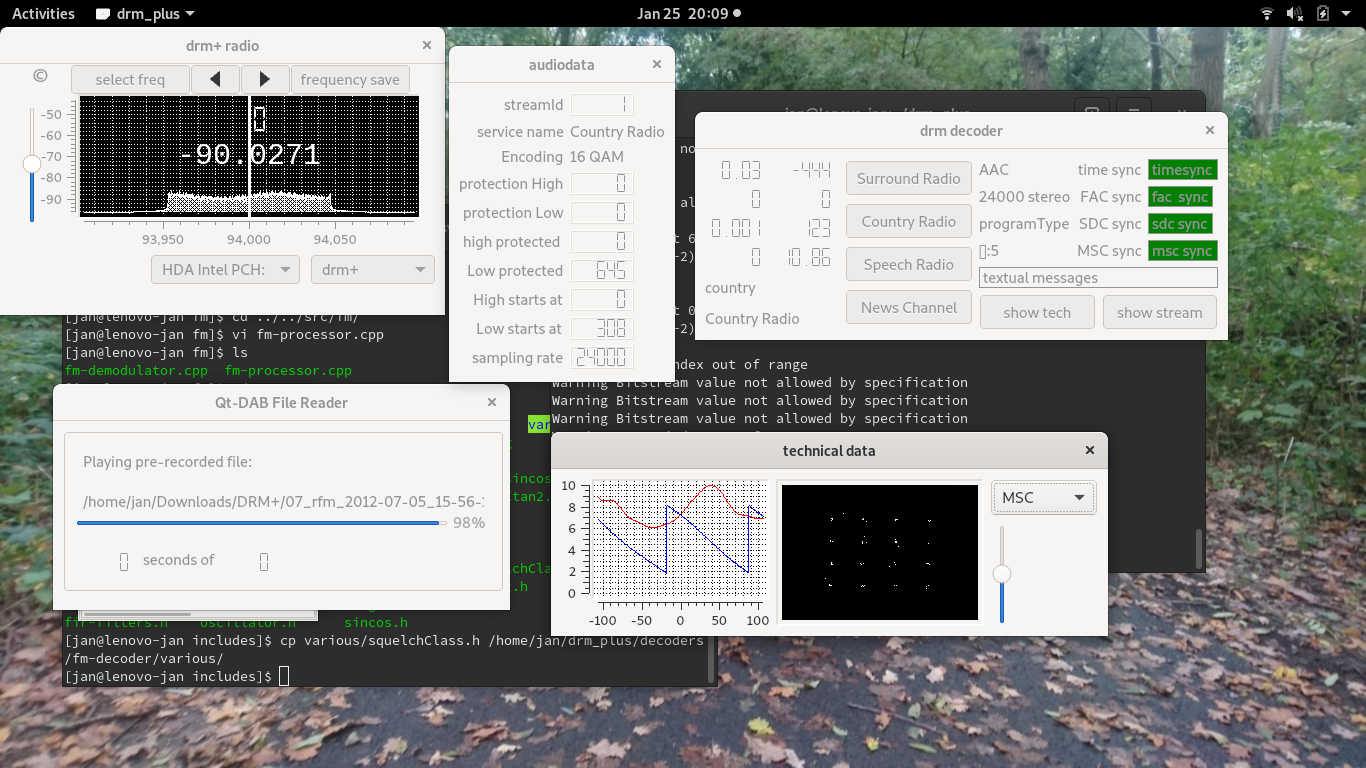
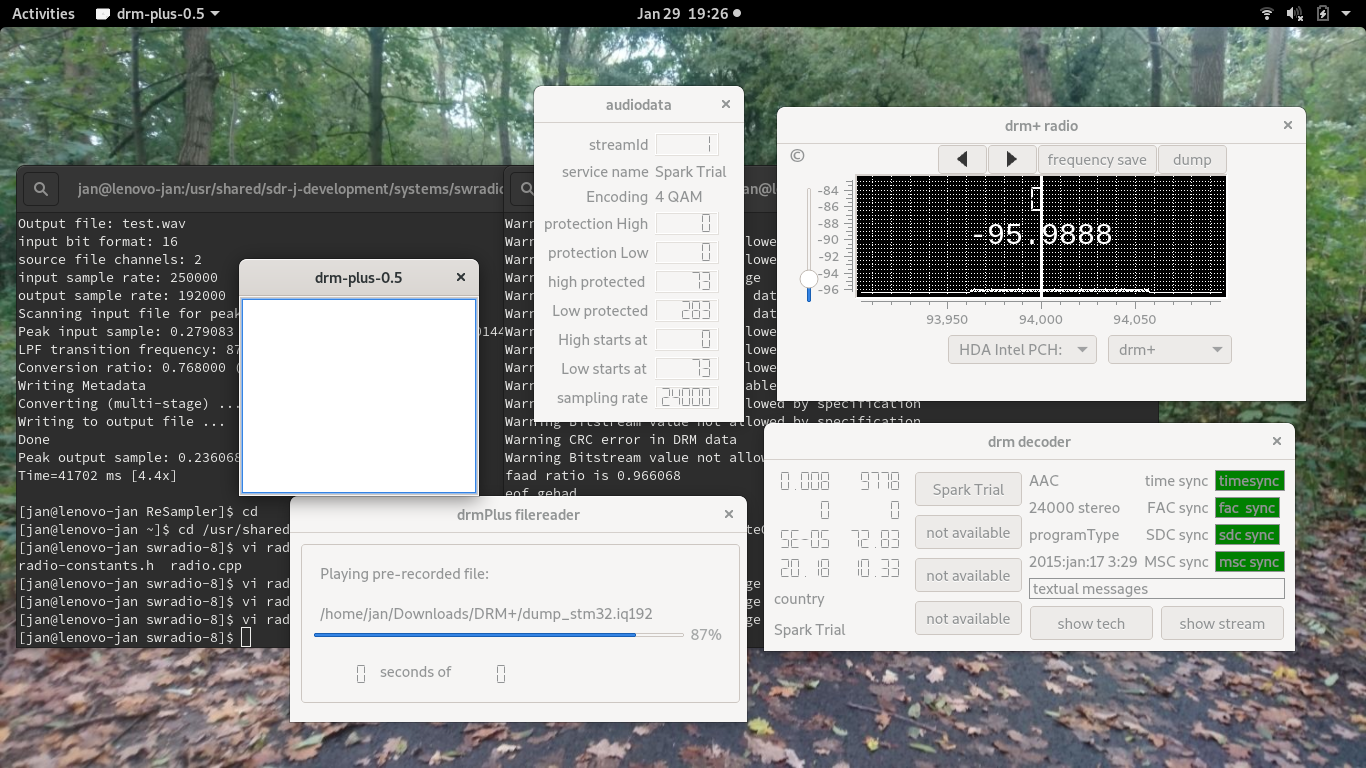
modified pictures

diff --git a/README.md b/README.md
@@ -1,6 +1,6 @@
 
 ------------------------------------------------------------------
-DRMPLUS-0.4
+DRMPLUS-0.5
 ------------------------------------------------------------------
 
 DRMPLUS-0.5 is experimental software for the decoding of
@@ -68,7 +68,7 @@ of the signal (just a technical term, skip if you are not familiar with it),
 i.e, the protection of the high and low protected parts as well as the
 offsets in the mux where to find the data.
 Furthermore, this widget will tell whether the signal was encoded as
-a 4QAM or a 16QAM signal.
+a 4QAM or a 16QAM signal (both supported).
 
 The (really) technical widget will show two "scopes". The scope on the
 left will show the equalization signal (note that DRM decoding requires
@@ -96,6 +96,8 @@ and some software filtering is applied - in the decimation process -
 to narrow the reception band to 192000 (Note that the SDRplay already
 has support for a bandwidth of 200 Khz)
 
+The *dump* button will write out the input data as a PCM (.wav)
+file with a samplerate of 192000
 Next to these devices, there is support for
 
  - PCM based files, i.e. ".wav" files;
